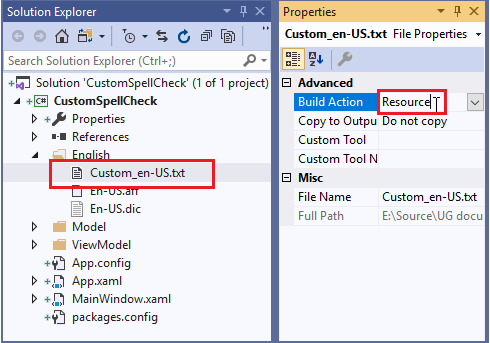
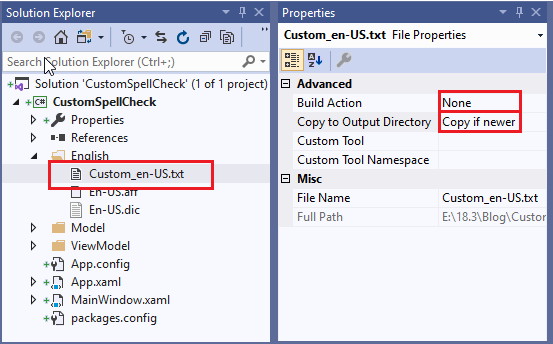
SpellChecker CustomDictionary image modified

Changed region(s): [[0.0, 0.0, 1.0, 1.0]]

diff --git a/wpf/SpellChecker/custom-dictionary-support.md b/wpf/SpellChecker/custom-dictionary-support.md
@@ -189,9 +189,11 @@ N> You can add multiple `OpenOfficeDictionary` with various culture files into t
 
 If you want to add words that is not available in existing  dictionary, you can add it using [CustomDictionary](https://help.syncfusion.com/cr/wpf/Syncfusion.Windows.Controls.CustomDictionary.html). This dictionary does not has a grammar file, it accepts only dictionary file that contains a list of words. Users can also add words to this custom dictionary by clicking `Add to Dictionary` button available in dialog or context menu. 
 
+You can add multiple `CustomDictionary` for each culture using `SfSpellChecker.Dictionaries` collection. If you load the `SfSpellChecker` with `en-US` culture, then you can add your custom words only on `en-US` cultured `CustomDictionary`.  
+
 ### Adding Custom Dictionary
 
-1. Create a custom dictionary text file as `Resource` into the application
+1. Create a custom dictionary text file, set build action as `None` and set `Copy to Output Directory` to `Copy if newer`. 
 
 ![Adding custom word files as resource into the application](Dictionary_images/CustomDictionaryAdding.png)
 
@@ -212,14 +214,16 @@ CultureInfo culture = new CultureInfo("en-US");
 SfSpellChecker SpellChecker = new SfSpellChecker();
 
 // Get the current PROJECT directory
-string projectDirectory = Directory.GetParent(Environment.CurrentDirectory).Parent.FullName;
+Uri CustomDict_uri= new Uri(Directory.GetCurrentDirectory()+  
+
+                            @"\English\Custom_en-US.txt", UriKind.Absolute); 
 
 //Add Custom dictionary for US culture
 SpellChecker.Dictionaries.Add(
     new CustomDictionary()
     {
         Culture = culture,
-        DictionaryUri = new Uri(projectDirectory + @"\English\Custom_en-US.txt", UriKind.Absolute)
+        DictionaryUri = CustomDict_uri
     }
 );
 
